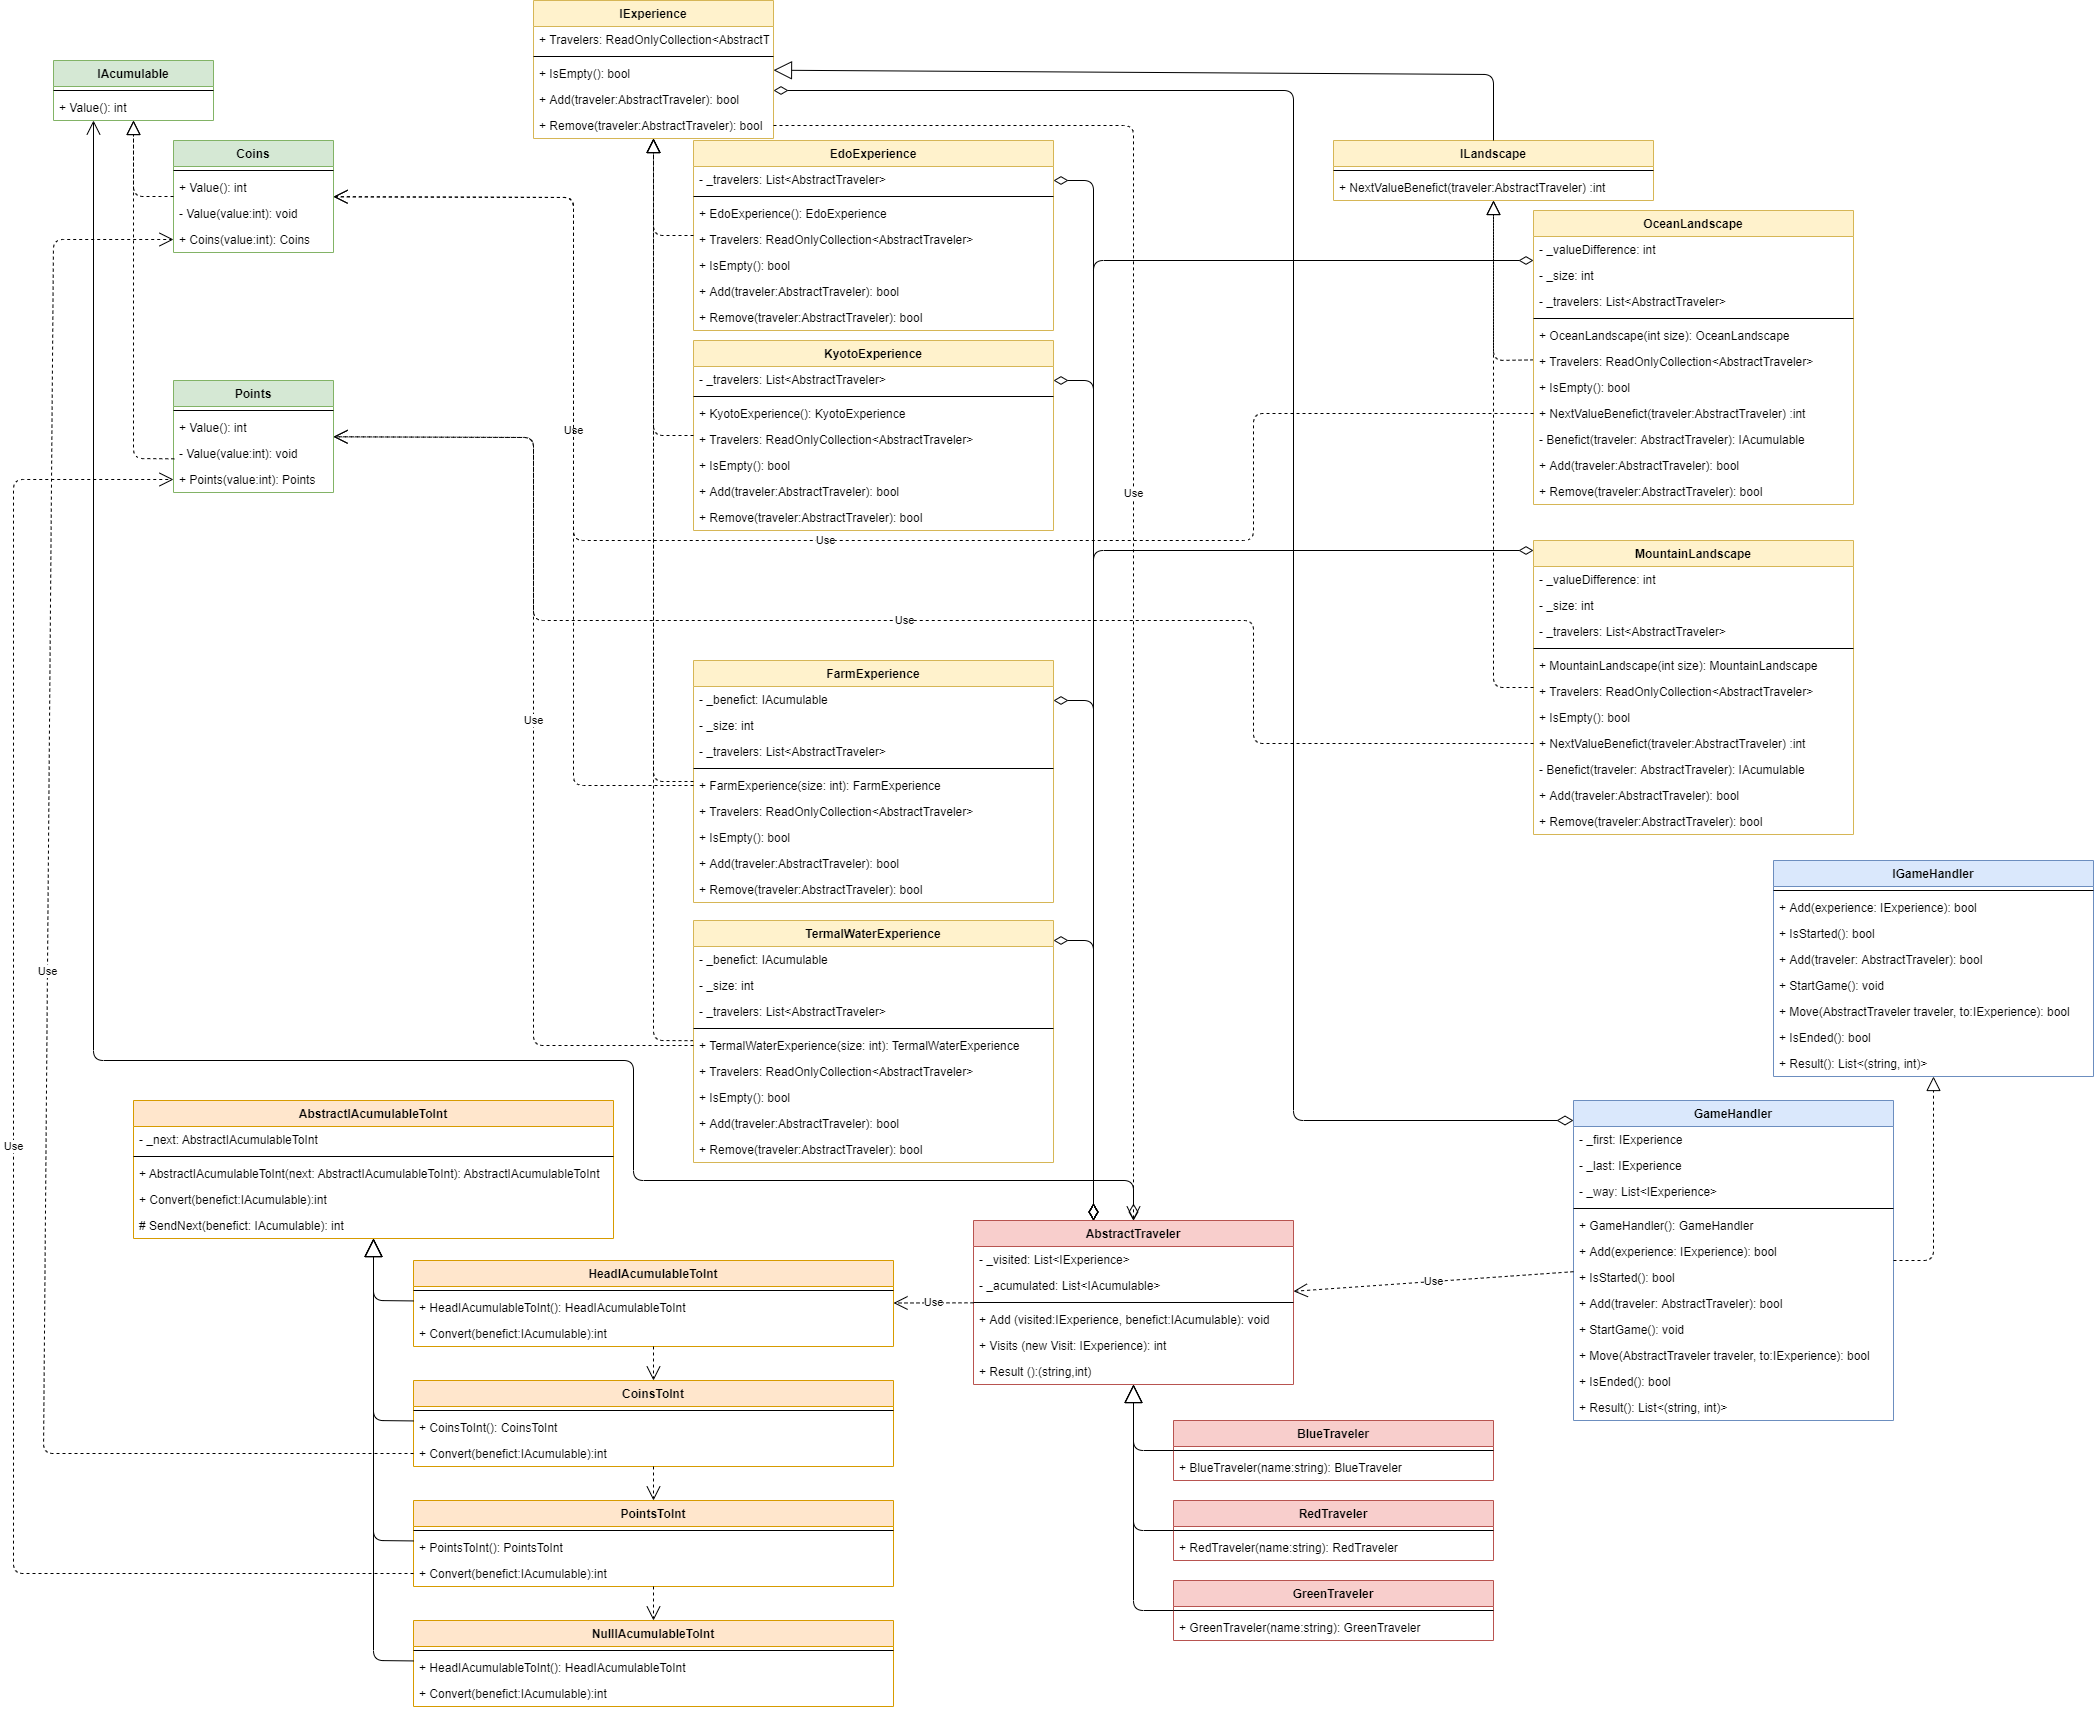
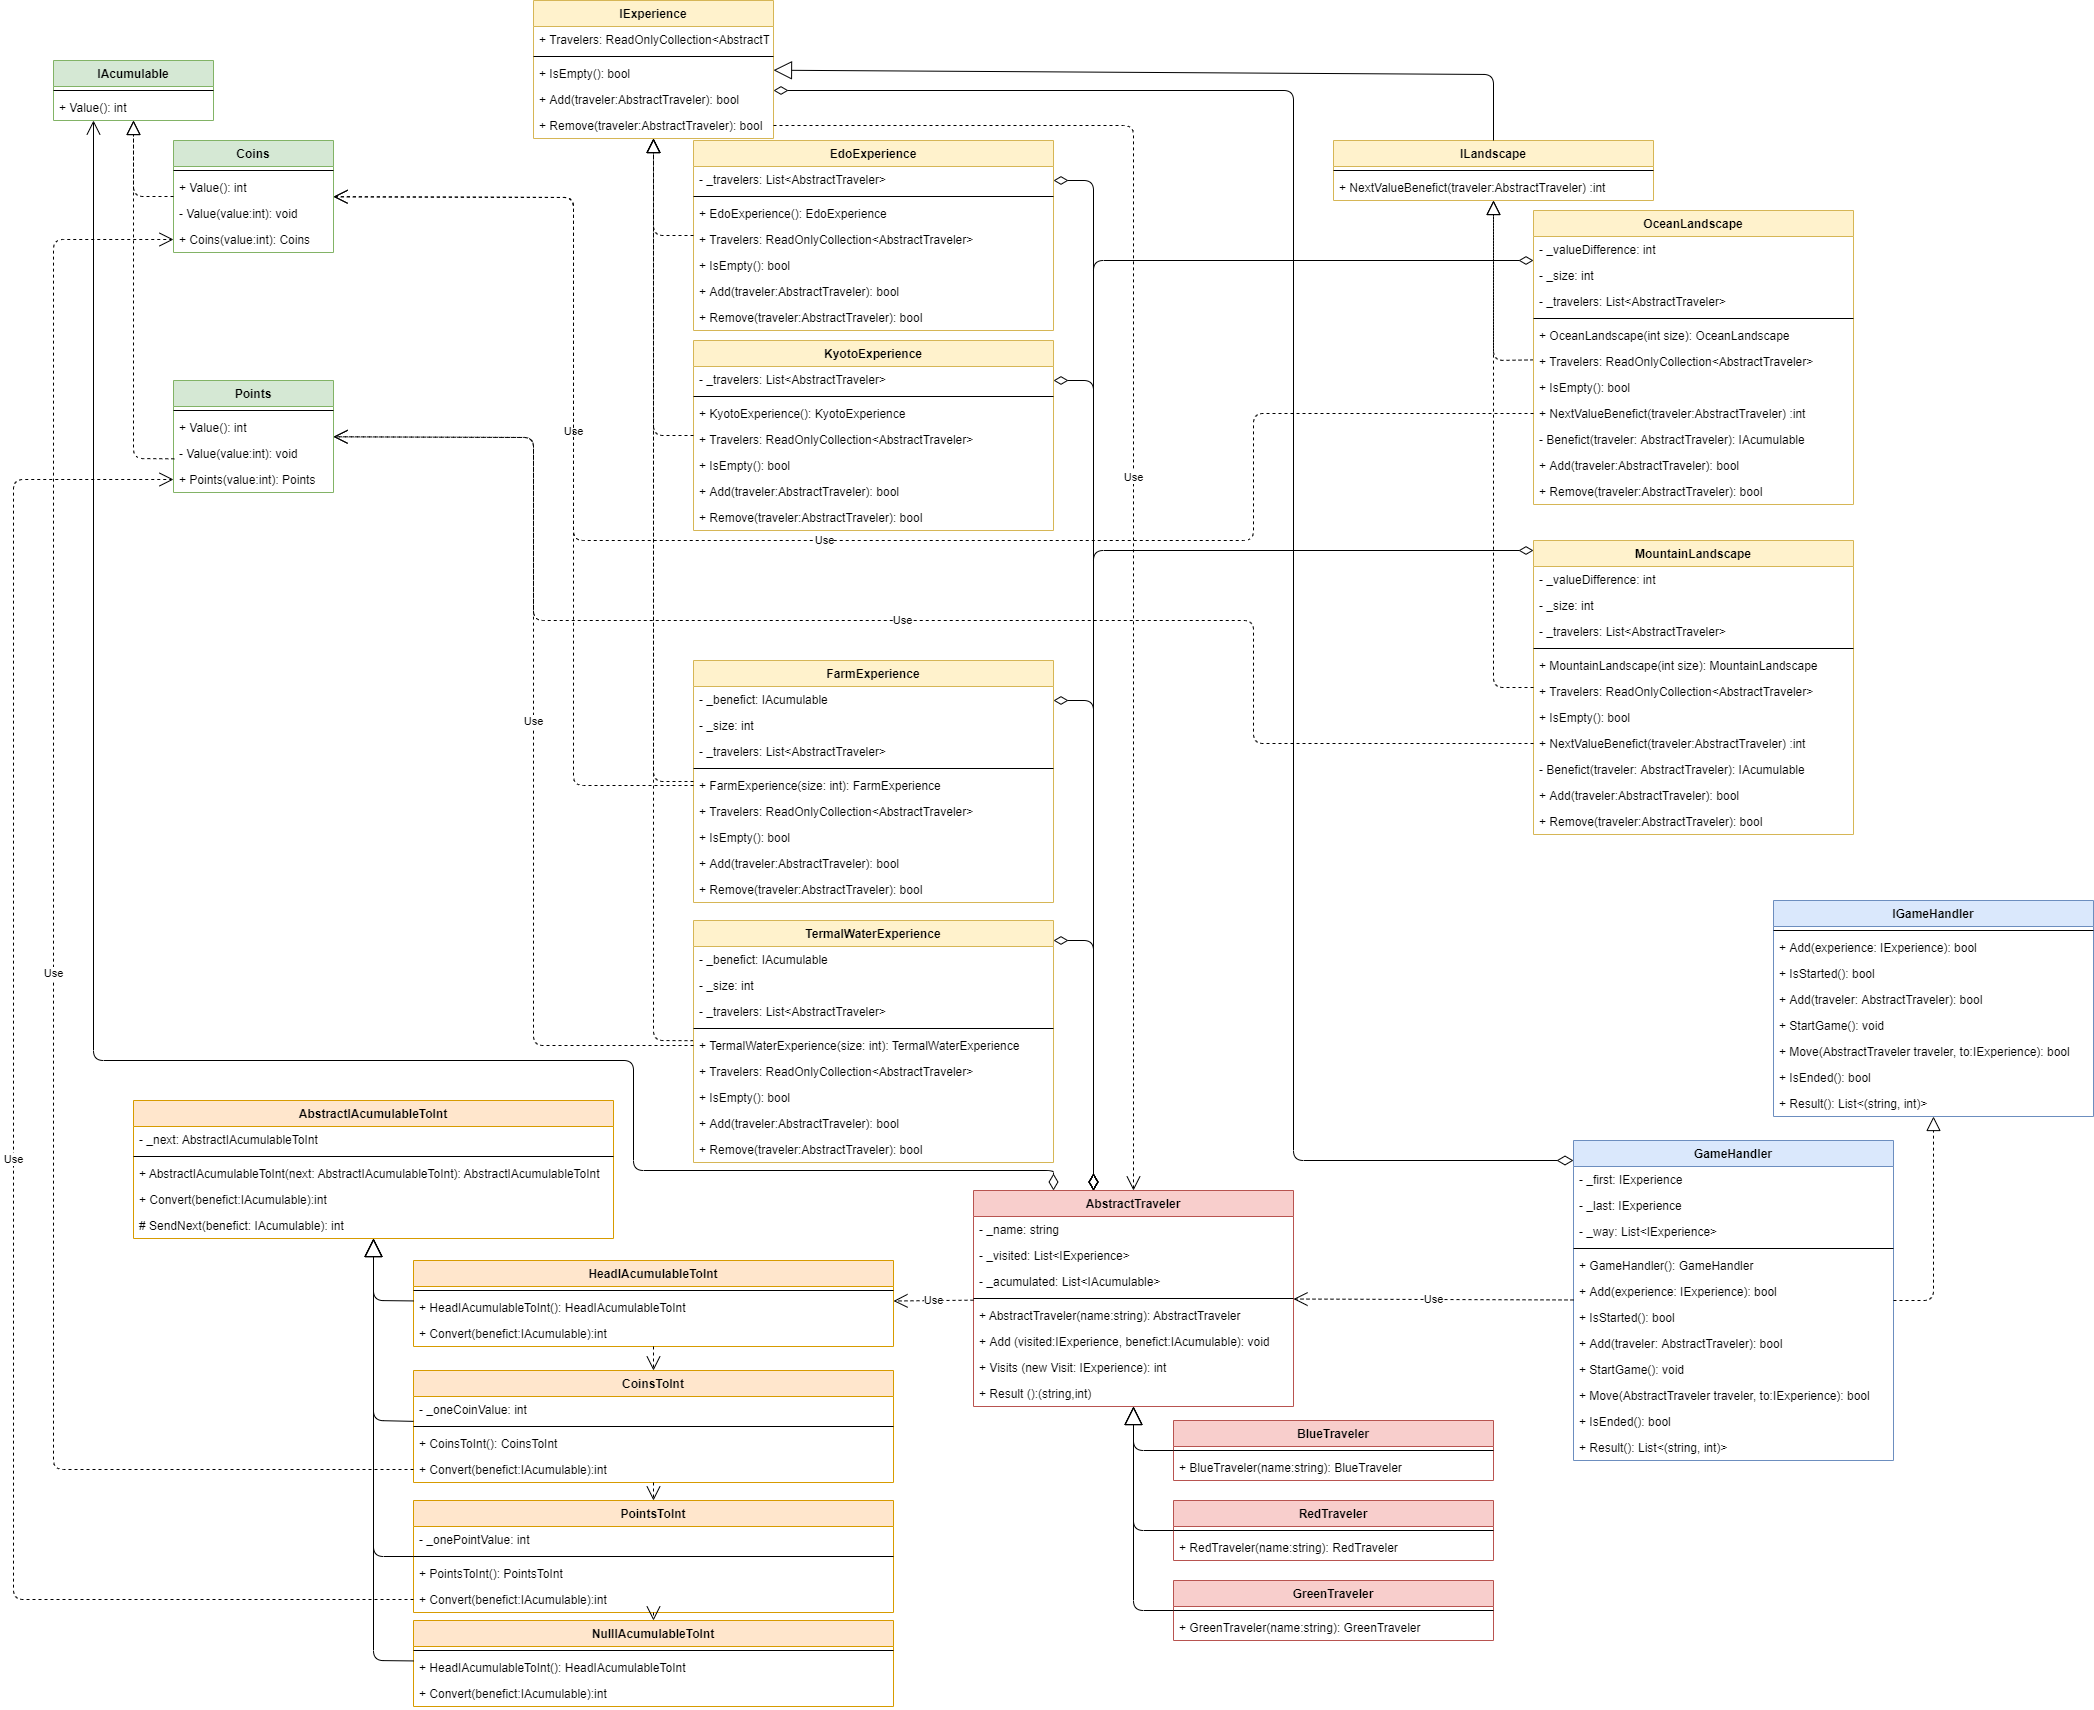
Travelers commented, IAcumulableToInt commented and diagram fixed

diff --git a/src/Library/Travelers/AbstractTraveler.cs b/src/Library/Travelers/AbstractTraveler.cs
@@ -1,14 +1,56 @@
+
+// SRP: Esta clase tiene la responsabilidad de conocer el camino recorrido por el usuario, tanto sus recpomenzas como las experiencias visitadas. 
+
+// OCP: Basta con heredar esta clase para agregar jugadores diferentes.
+
+// DIP: Esta clase de alto nivel depende de clases de alto nivel y bajo nivel (HeadAcumulableToInt).
+
+// Expert: Esta clase conoce los lugares visitados, se encarga de contar las anteriores visitas de un cada experiencia.
+// Esta clase conoce los beneficios obtenidos, se encarga de retornar el conteo final de los puntos.
+
+// Creator: Esta clase usa de forma cercana HeadAcumulableToInt, se encarga de su creacion.
+
+using System.Collections.Generic;
+
 namespace Library
 {
     public abstract class AbstractTraveler
     {
-        public int Visits(IExperience visited)
+        private string _name;
+        private List<IExperience> _visited;
+        private List<IAcumulable> _acumulated;
+        public AbstractTraveler(string name)
         {
-            return 0;
+            this._name = name;
+            this._visited = new List<IExperience> ();
+            this._acumulated = new List<IAcumulable> ();
         }
-        public void Add(IExperience experience, IAcumulable benefict)
+        public void Add(IExperience visited, IAcumulable benefict)
         {
-
+            this._visited.Add(visited);
+            this._acumulated.Add(benefict);
+        }
+        public int Visits(IExperience newVisit)
+        {
+            int count = 0;
+            foreach (IExperience visited in this._visited)
+            {
+                if (newVisit.GetType().Equals(visited))
+                {
+                    count ++;
+                }
+            }
+            return count;
+        }
+        public (string, int) Result()
+        {
+            AbstractIAcumulableToInt convertor = new HeadAcumulableToInt();
+            int result = 0;
+            foreach (IAcumulable benefict in this._acumulated)
+            {
+                result += convertor.Convert(benefict);
+            }
+            return (this._name, result);
         }
     }
 }

diff --git a/src/Library/Travelers/IAcumulableToInt/PointsToInt.cs b/src/Library/Travelers/IAcumulableToInt/PointsToInt.cs
@@ -1,0 +1,36 @@
+
+// SRP: Esta clase tiene la responsabilidad de definir la conversion Points a int.
+
+// OCP: Esta clase es un ejemplo del agregado de una moneda heredando la clase AbstractIAcumulableToInt.
+
+// LSP: Esta clase es subtipo de AbstractIAcumulableToInt por lo tanto puede sustituirlo. 
+
+// DIP: Esta clase de bajo nivel depende de clases de alto nivel y bajo nivel (NullAcumulableToInt y Points).
+
+// Expert: Esta clase conoce el valor de un Coin, se encarga de convertirlos a int.
+
+// Creator: Como esta clase usa de forma cercana NullAcumulableToInt, se encarga de crearlo.
+
+namespace Library
+{
+    public class PointsToInt : AbstractIAcumulableToInt
+    {
+        private int _onePointValue;
+        public PointsToInt()
+        :base(new NullAcumulableToInt())
+        {
+            this._onePointValue = 3;
+        }
+        public override int Convert(IAcumulable benefict)
+        {
+            if (benefict is Points)
+            {
+                return benefict.Value * this._onePointValue;
+            }
+            else
+            {
+                return this.SendNext(benefict);
+            }
+        }
+    }
+}

diff --git a/src/Library/Travelers/IAcumulableToInt/CoinsToInt.cs b/src/Library/Travelers/IAcumulableToInt/CoinsToInt.cs
@@ -1,0 +1,36 @@
+
+// SRP: Esta clase tiene la responsabilidad de definir la conversion Coins a int.
+
+// OCP: Esta clase es un ejemplo del agregado de una moneda heredando la clase AbstractIAcumulableToInt.
+
+// LSP: Esta clase es subtipo de AbstractIAcumulableToInt por lo tanto puede sustituirlo. 
+
+// DIP: Esta clase de bajo nivel depende de clases de alto nivel y bajo nivel (PointsToInt y Coins).
+
+// Expert: Esta clase conoce el valor de un Point, se encarga de convertirlos a int.
+
+// Creator: Como esta clase usa de forma cercana PointsToInt, se encarga de crearlo.
+
+namespace Library
+{
+    public class CoinsToInt : AbstractIAcumulableToInt
+    {
+        private int _onePointValue;
+        public CoinsToInt()
+        :base(new PointsToInt())
+        {
+            this._onePointValue = 1;
+        }
+        public override int Convert(IAcumulable benefict)
+        {
+            if (benefict is Coins)
+            {
+                return benefict.Value * this._onePointValue;
+            }
+            else
+            {
+                return this.SendNext(benefict);
+            }
+        }
+    }
+}

diff --git a/src/Library/Travelers/IAcumulableToInt/NullIAcumulableToInt.cs b/src/Library/Travelers/IAcumulableToInt/NullIAcumulableToInt.cs
@@ -1,0 +1,30 @@
+
+// SRP: Esta clase tiene la responsabilidad de definir el ultimo eslabon de la cadena de conversion IAcumulable To int.
+
+// OCP: Esta clase es un ejemplo del agregado de un eslabon a la cadena heredando la clase AbstractIAcumulableToInt.
+
+// LSP: Esta clase es subtipo de AbstractIAcumulableToInt por lo tanto puede sustituirlo. 
+
+// DIP: Esta clase de bajo nivel depende solamente de clases de alto nivel.
+
+// Creator: Esta clase larga una excepcion, la usa de forma cercana, por lo que se encarga de crearla.
+
+using System;
+
+namespace Library
+{
+    public class NullAcumulableToInt : AbstractIAcumulableToInt
+    {
+        public NullAcumulableToInt()
+        :base(null)
+        {
+        }
+
+        public override int Convert(IAcumulable benefict)
+        {
+            // Cuando se llega al ultimo eslabon se lanza una excepcion de falta de implementacion de convertor.
+            // Esto ayuda al agregado de nuevas monedas rapidamente.
+            throw new NotImplementedException();
+        }
+    }
+}

diff --git a/src/Library/Travelers/IAcumulableToInt/HeadIAcumulableToInt.cs b/src/Library/Travelers/IAcumulableToInt/HeadIAcumulableToInt.cs
@@ -1,0 +1,26 @@
+
+// SRP: Esta clase tiene la responsabilidad de definir el primer eslabon de la cadena de conversion IAcumulable To int.
+
+// OCP: Esta clase es un ejemplo del agregado de un eslabon a la cadena heredando la clase AbstractIAcumulableToInt.
+
+// LSP: Esta clase es subtipo de AbstractIAcumulableToInt por lo tanto puede sustituirlo. 
+
+// DIP: Esta clase de bajo nivel depende de clases de alto nivel y bajo nivel (CoinsToInt).
+
+// Creator: Como esta clase usa de forma cercana CoinsToInt, se encarga de crearlo.
+
+namespace Library
+{
+    public class HeadAcumulableToInt : AbstractIAcumulableToInt
+    {
+        public HeadAcumulableToInt()
+        :base(new CoinsToInt())
+        {
+
+        }
+        public override int Convert(IAcumulable benefict)
+        {
+            return this.SendNext(benefict);
+        }
+    }
+}

diff --git a/src/Library/Travelers/IAcumulableToInt/Abstract/AbstractIAcumulableToInt.cs b/src/Library/Travelers/IAcumulableToInt/Abstract/AbstractIAcumulableToInt.cs
@@ -1,0 +1,25 @@
+
+// SRP: Esta clase tiene la responsabilidad de definir un eslabon de la cadena de conversion IAcumulable To int.
+
+// OCP: Basta con heredar esta clase para agregar un nuevo tipo de moneda.
+
+// DIP: Esta clase de alto nivel depende solo de clases de alto nivel.
+
+// Expert: Esta clase conoce el siguiente eslabon, se encarga de enviar el IAcumulable al siguiente.
+
+namespace Library
+{
+    public abstract class AbstractIAcumulableToInt
+    {
+        private AbstractIAcumulableToInt _next;
+        public AbstractIAcumulableToInt(AbstractIAcumulableToInt next)
+        {
+            this._next = next;
+        }
+        public abstract int Convert(IAcumulable benefict);
+        protected int SendNext(IAcumulable benefict)
+        {
+            return this._next.Convert(benefict);
+        }
+    }
+}

diff --git a/src/Library/Travelers/GreenTraveler.cs b/src/Library/Travelers/GreenTraveler.cs
@@ -1,0 +1,19 @@
+
+// SRP: Esta clase tiene la responsabilidad de definir un jugador verde. 
+
+// OCP: Esta clase es un ejemplo del agregado de un jugador heredando la interface IExperience.
+
+// LSP: Esta clase es subtipo de AbstractTraveler por lo tanto puede sustituirlo. 
+
+// DIP: Esta clase de bajo nivel depende de clases de alto nivel.
+
+namespace Library
+{
+    public class GreenTraveler : AbstractTraveler
+    {
+        public GreenTraveler(string name)
+        :base(name)
+        {
+        }
+    }
+}

diff --git a/src/Library/Travelers/BlueTraveler.cs b/src/Library/Travelers/BlueTraveler.cs
@@ -1,0 +1,19 @@
+
+// SRP: Esta clase tiene la responsabilidad de definir un jugador azul. 
+
+// OCP: Esta clase es un ejemplo del agregado de un jugador heredando la interface IExperience.
+
+// LSP: Esta clase es subtipo de AbstractTraveler por lo tanto puede sustituirlo. 
+
+// DIP: Esta clase de bajo nivel depende de clases de alto nivel.
+
+namespace Library
+{
+    public class BlueTraveler : AbstractTraveler
+    {
+        public BlueTraveler(string name)
+        :base(name)
+        {
+        }
+    }
+}

diff --git a/src/Library/Travelers/RedTraveler.cs b/src/Library/Travelers/RedTraveler.cs
@@ -1,0 +1,19 @@
+
+// SRP: Esta clase tiene la responsabilidad de definir un jugador rojo. 
+
+// OCP: Esta clase es un ejemplo del agregado de un jugador heredando la interface IExperience.
+
+// LSP: Esta clase es subtipo de AbstractTraveler por lo tanto puede sustituirlo. 
+
+// DIP: Esta clase de bajo nivel depende de clases de alto nivel.
+
+namespace Library
+{
+    public class RedTraveler : AbstractTraveler
+    {
+        public RedTraveler(string name)
+        :base(name)
+        {
+        }
+    }
+}
